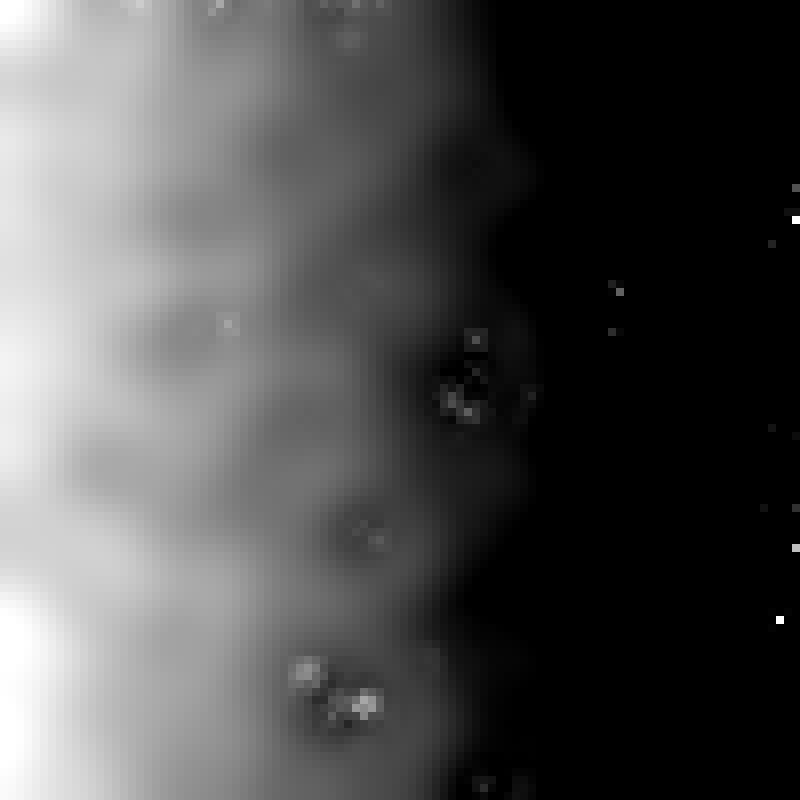
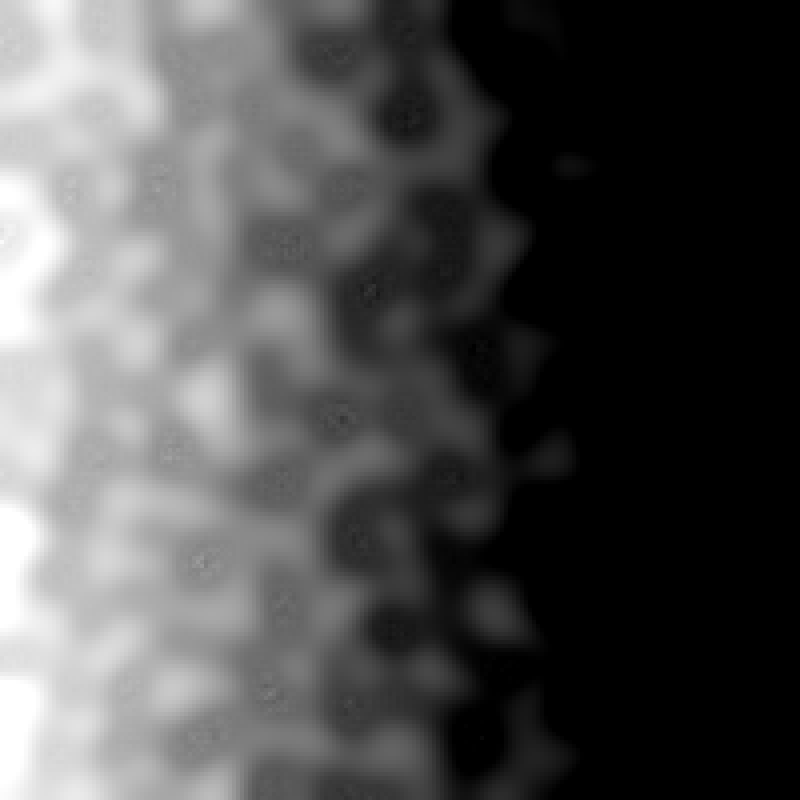
playing around with settings

diff --git a/tests/browser/city/erosion.js b/tests/browser/city/erosion.js
@@ -25,23 +25,24 @@ function render(canvas, doBlue) {
 
 }
 
-var CELLSIZE = 8;
+var CELLSIZE = 4;
 var SIZE = canvas.width / CELLSIZE;
-var NOISE_SCALE = 40;
+var NOISE_SCALE = 60;
 var NOISE_DIF = 10;
-var NOISE_SCALE_2 = 5;
+var NOISE_SCALE_2 = 10;
 var NOISE_DIF_2 = 3;
 var RAND_SCALE = 2;
 
 var erosion = new Erosion({
     size: SIZE,
-    randPow: 3,
     defaultHydration: 1,
-    evaporation: 0.25,
-    sedInWater: 0.05,
+    randPow: 1,
+    evaporation: 0.6,
+    sedInWater: 0.0125,
     sedimentErosion: 0.01,
     fastDrop: false,
     maxErosion: 1,
+    smoothWeight: 2,
     heightFn: function (i, j) {
         return (i - SIZE / 2) * -150 / SIZE
           + 60

diff --git a/Erosion.js b/Erosion.js
@@ -64,7 +64,7 @@
 
                   console.log('cycle ', n);
               }
-              this.smooth();
+           //   this.smooth();
           },
 
           dissolve: function () {
